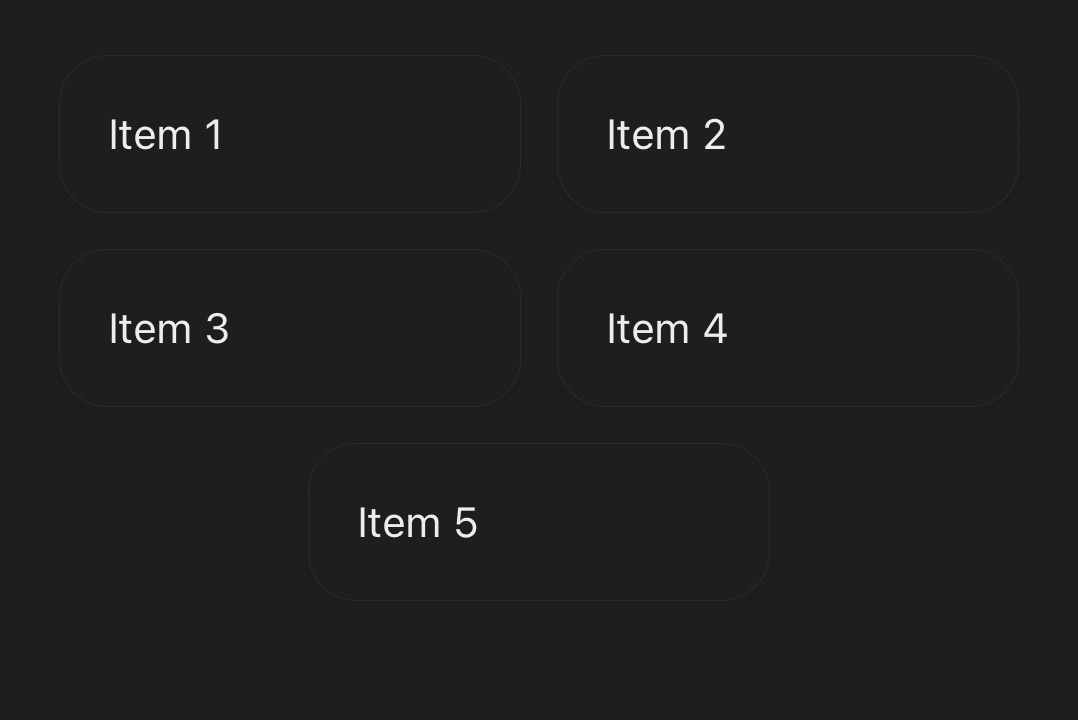
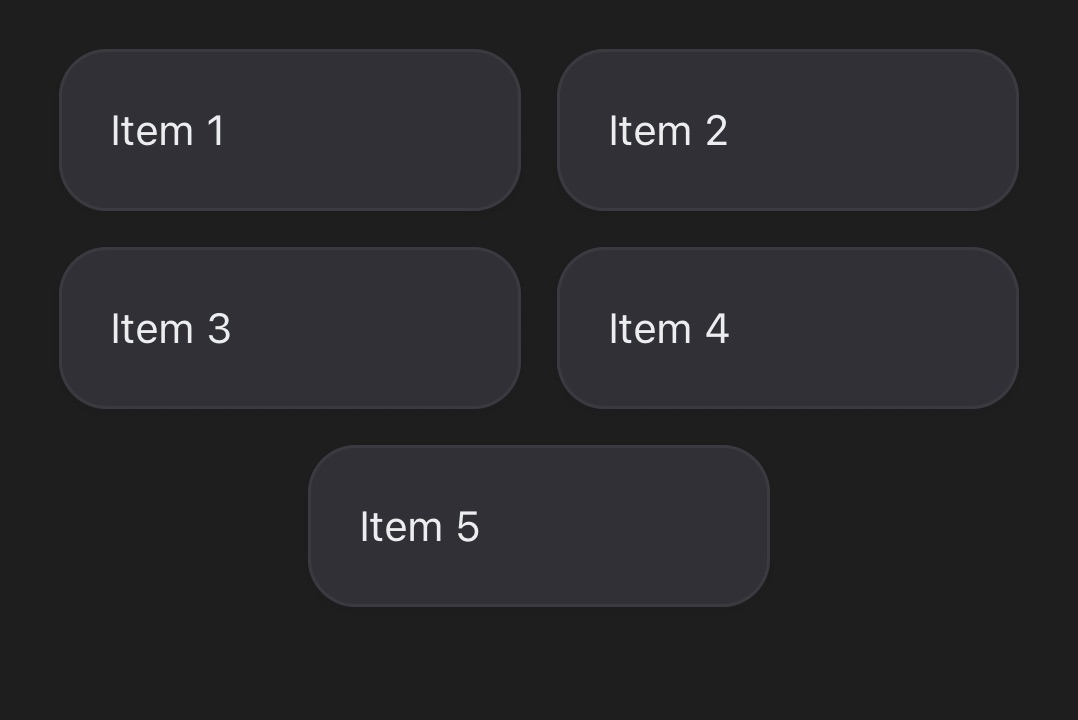
docs(symmetric-grid): dark shots with raised cards; changelog for surfaceRaised

diff --git a/src/data/changelog.ts b/src/data/changelog.ts
@@ -112,6 +112,16 @@ export const releases: Release[] = [
       ],
       added: [
         {
+          component: 'Theme',
+          page: '/tokens',
+          items: [
+            {
+              en: '`surfaceRaised`: fill for a surface that sits on another surface (Card). Equal to `surface` in light, lighter in dark. If you build a complete palette yourself, add it.',
+              es: '`surfaceRaised`: relleno de una superficie que va sobre otra (Card). Igual a `surface` en claro, más claro en oscuro. Si armas una paleta completa a mano, agrégalo.',
+            },
+          ],
+        },
+        {
           component: 'AvatarHeader',
           items: [
             {
@@ -640,6 +650,29 @@ export const releases: Release[] = [
       ],
       changed: [
         {
+          component: 'Theme',
+          page: '/tokens',
+          items: [
+            {
+              en: 'The dark `border` color is lighter (`#2a2a2e` → `#3a3a40`): at 1.17:1 against `surface` it was invisible, so cards, inputs, dividers and steppers lost their outline in dark mode.',
+              es: 'El color `border` oscuro es más claro (`#2a2a2e` → `#3a3a40`): con 1,17:1 contra `surface` era invisible, así tarjetas, inputs, divisores y steppers perdían el contorno en modo oscuro.',
+            },
+          ],
+        },
+        {
+          component: 'Card',
+          items: [
+            {
+              en: 'In dark mode the card is a lighter tile (new `surfaceRaised` color, `#303036`) with a 1pt border: before, it had the same fill as the surface under it and only a hairline, so on a sheet or a grid only its text showed.',
+              es: 'En modo oscuro la tarjeta es un tile más claro (nuevo color `surfaceRaised`, `#303036`) con borde de 1pt: antes tenía el mismo relleno que la superficie de abajo y solo un hairline, así sobre un sheet o una grilla solo se veía su texto.',
+            },
+            {
+              en: 'OptionCard, the Timeline pills, the Chart tooltip, the Select dropdown and Toast use the same raised fill, so in dark they also read as tiles over the surface below.',
+              es: 'OptionCard, las píldoras de Timeline, el tooltip de Chart, el desplegable de Select y Toast usan el mismo relleno elevado, así en oscuro también se leen como tiles sobre la superficie de abajo.',
+            },
+          ],
+        },
+        {
           component: 'UIProvider',
           page: '/getting-started',
           items: [
@@ -732,8 +765,8 @@ export const releases: Release[] = [
           component: 'Skeleton',
           items: [
             {
-              en: 'Stronger placeholder color so it stands out from cards: `#e3e5e8` in light (was `#eceef1`), `#2c2c30` in dark (was `#26262a`).',
-              es: 'Color más marcado para que se distinga de las tarjetas: `#e3e5e8` en claro (antes `#eceef1`) y `#2c2c30` en oscuro (antes `#26262a`).',
+              en: 'Stronger placeholder color so it stands out from cards: `#e3e5e8` in light (was `#eceef1`), `#44444b` in dark (was `#26262a`), lighter than the dark card fill so it shows inside cards too.',
+              es: 'Color más marcado para que se distinga de las tarjetas: `#e3e5e8` en claro (antes `#eceef1`) y `#44444b` en oscuro (antes `#26262a`), más claro que el relleno de las tarjetas oscuras para que también se vea dentro de ellas.',
             },
           ],
         },
